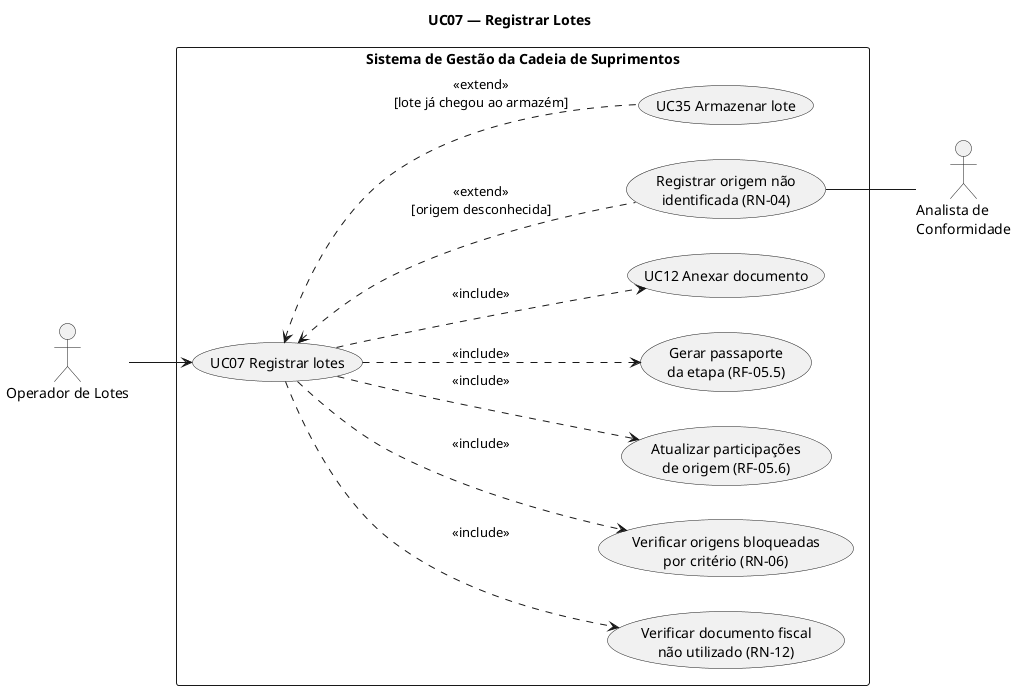
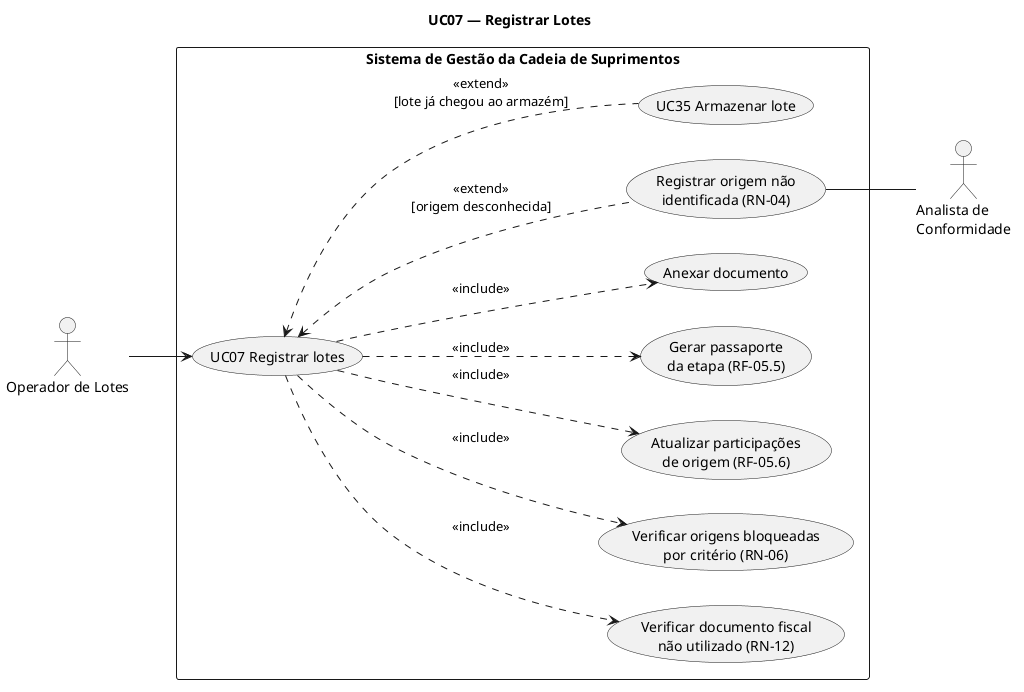
docs(casos-de-uso): remover referências aos diagramas excluídos da v3
- remover links para docs/v3/diagrams nas especificações, no cenário e no README
- trocar referências a casos de uso sem especificação pelos requisitos correspondentes
- ajustar a árvore e as convenções do índice da documentação

Claude-Session: https://claude.ai/code/session_01CS1BLfWC21KiiMoxbZDkQv

diff --git a/docs/v3/casos-de-uso/cenario-ciclo-de-vida-do-lote.md b/docs/v3/casos-de-uso/cenario-ciclo-de-vida-do-lote.md
@@ -7,11 +7,10 @@
 | **Tipo** | Cenário de ponta a ponta. Não é um caso de uso: encadeia casos de uso do sistema ao longo de vários dias e com atores diferentes |
 | **Participantes** | Operador de Lotes, Analista de Conformidade, Temporizador «sistema», SICAR «externo» |
 | **Estágio** | Piloto |
-| **Casos de uso encadeados** | [UC07](uc07-registrar-lotes.md) → [UC35](uc35-armazenar-lote.md) → [UC17](uc17-validar-conformidade.md) → UC14 → [UC36](uc36-transformar-lote.md) (com UC35) → [UC22](uc22-vender-lote.md) |
+| **Casos de uso encadeados** | [UC07](uc07-registrar-lotes.md) → [UC35](uc35-armazenar-lote.md) → [UC17](uc17-validar-conformidade.md) → consulta diária às fontes (RF-03.1) → [UC36](uc36-transformar-lote.md) (com UC35) → [UC22](uc22-vender-lote.md) |
 | **Requisitos** | RF-03.1, RF-05.1, RF-05.3, RF-05.5, RF-05.6, RF-05.9, RF-05.10, RF-05.11, RF-06.2, RF-07.2, RF-07.3, RF-13.2 |
 | **Regras de negócio** | RN-01, RN-02, RN-05, RN-06, RN-10, RN-16, RN-18, RN-19, RN-20, RN-21, RN-23 |
 | **Diagrama de atividades** | [`plantuml/cenario-ciclo-de-vida-do-lote.puml`](plantuml/cenario-ciclo-de-vida-do-lote.puml): raias por participante e nós de objeto com o estado de cada lote |
-| **Estados do lote** | [Máquina de estados do Lote](../diagrams/plantuml/estados-lote.png) ([`.puml`](../diagrams/plantuml/estados-lote.puml)): vale para qualquer lote, não só para este exemplo |
 
 ## Objetivo
 
@@ -84,7 +83,7 @@ Todos os nomes são fictícios. Massas em kg inteiros (RNF-19).
 
 2. Resultado: **não validado**. O sistema aponta a Fazenda Santa Clara como origem da massa não definida.
 
-### Etapa 4 — Consulta diária e reavaliação automática (UC14 e UC17 A1), dia 2
+### Etapa 4 — Consulta diária e reavaliação automática (RF-03.1 e UC17 A1), dia 2
 
 1. O Temporizador dispara a consulta diária ao SICAR (RF-03.1). O CAR da Fazenda Santa Clara está **ativo**: o sistema registra um novo status de C3, **conforme** (RN-10, RN-16), e a versão da Santa Clara passa de 1 para 2.
 2. O evento `StatusCriterioRegistrado` dispara a reavaliação dos lotes com participação da Santa Clara (RF-07.3). L-001 agora tem 29.700 kg conformes em C3 e passa a **validado**. As versões registradas nas participações são atualizadas.
@@ -104,7 +103,7 @@ Todos os nomes são fictícios. Massas em kg inteiros (RNF-19).
 4. F-001 e O-001 são armazenados pelo UC35, a partir do passo 3, sem pesagem de chegada, na Célula F1 e no Tanque T1, que estavam vazios.
 5. O sistema gera os passaportes **P-002** (F-001) e **P-003** (O-001), ambos com o hash de P-001 como entrada (RF-05.5). Os dois lotes de produto estão **validados**: todas as origens estão conformes nos três critérios.
 
-### Etapa 6 — Nova consulta antes da venda (UC14), dia 10
+### Etapa 6 — Nova consulta antes da venda (RF-03.1), dia 10
 
 1. A consulta diária registra uma nova avaliação de C1 para a Fazenda Boa Vista, novamente **conforme**. Mesmo sem mudança de valor, a versão da Boa Vista passa de 3 para 4 (RN-16).
 
@@ -122,7 +121,7 @@ Todos os nomes são fictícios. Massas em kg inteiros (RNF-19).
 | 1 | Registro | UC07 | em trânsito, 30.000 kg, não validado | — | — | P-001 |
 | 1 | Armazenagem | UC35 | em estoque, Silo 2, 29.700 kg | — | — | — |
 | 1 | Validação | UC17 | não validado (C3) | — | — | — |
-| 2 | Consulta SICAR | UC14 → UC17 | validado | — | — | — |
+| 2 | Consulta SICAR | RF-03.1 → UC17 | validado | — | — | — |
 | 3 | Transformação | UC36 + UC35 | em estoque, 9.700 kg | em estoque, Célula F1, 15.400 kg | em estoque, Tanque T1, 3.800 kg | P-002, P-003 |
 | 10 | Venda | UC22 | — | em estoque, 5.400 kg (10.000 kg vendidos) | — | P-004 |
 
@@ -141,6 +140,6 @@ Seguindo P-004 → P-002 → P-001, o comprador comprova a origem dos 10.000 kg 
 |---|---|---|
 | no dia 2 o CAR da Santa Clara viesse **cancelado** | C3 fica inconforme; L-001 continua não validado; F-001 e O-001 nascem não validados; a venda exige confirmação de lote não validado | RN-10, UC22 A3 |
 | a pesagem passasse de 1,5% de quebra | o Operador precisa justificar e o recebimento fica sinalizado para o Analista | RN-23, UC35 E2 |
-| o Silo 2 já tivesse soja de outro lote | a armazenagem vira mistura, com novo lote e participações combinadas | UC35 A1, UC08 |
+| o Silo 2 já tivesse soja de outro lote | a armazenagem vira mistura, com novo lote e participações combinadas | UC35 A1, RF-05.2 |
 | o caminhão fosse direto para a esmagadora | o lote é recebido sem passar pelo silo e entra no processo | UC36 A1 |
 | o rendimento informado fosse 99% | a transformação é recusada por estar fora da faixa do tipo de processo | RN-02, UC36 E1 |

diff --git a/docs/v3/casos-de-uso/uc17-validar-conformidade.md b/docs/v3/casos-de-uso/uc17-validar-conformidade.md
@@ -4,7 +4,7 @@
 
 | Campo | Valor |
 |---|---|
-| **Módulo** | Conformidade ([diagrama](../diagrams/casos-de-uso.md#3-conformidade)) |
+| **Módulo** | Conformidade |
 | **Ator principal** | Analista de Conformidade |
 | **Atores secundários** | Sistema (worker), na reavaliação automática; Auditor, na consulta |
 | **Estágio** | Piloto (consulta em data passada: Pós-piloto) |
@@ -20,7 +20,7 @@ Decidir se um lote está **validado** ou **não validado** segundo o perfil de v
 ## Pré-condições
 
 1. O usuário está autenticado e tem perfil Analista de Conformidade ou superior.
-2. Existe um perfil de validação vigente com ao menos uma regra ativa (RF-06.1, UC16).
+2. Existe um perfil de validação vigente com ao menos uma regra ativa (RF-06.1).
 3. O lote existe, não foi baixado e tem participações de origem calculadas (RF-05.6).
 
 ## Pós-condições
@@ -48,7 +48,7 @@ Decidir se um lote está **validado** ou **não validado** segundo o perfil de v
 ## Fluxos alternativos
 
 **A1 — Reavaliação automática** (início alternativo, RF-07.3)
-1. Um status de critério de uma origem é registrado (consulta diária às fontes, UC14, ou alteração manual, UC19).
+1. Um status de critério de uma origem é registrado (consulta diária às fontes, RF-03.1, ou alteração manual, RF-07.5).
 2. O worker consome o evento `StatusCriterioRegistrado` e identifica os lotes em estoque ou em trânsito que têm participação dessa origem.
 3. Para cada lote, executa os passos 2 a 6 do fluxo principal.
 4. Se o lote deixou de ser validado, notifica o Operador e o Analista (notificação na interface). O caso de uso termina.
@@ -60,13 +60,13 @@ Decidir se um lote está **validado** ou **não validado** segundo o perfil de v
 
 **A3 — Regularizar e revalidar** (passo 7)
 1. O Analista escolhe uma origem responsável por massa inconforme ou não definida.
-2. O sistema inicia o UC19 — Alterar status de critério manualmente (com justificativa e documento, RN-08).
+2. O sistema inicia a alteração manual do status do critério, com justificativa e documento (RF-07.5, RN-08).
 3. Ao concluir, volta ao passo 2.
 
 ## Fluxos de exceção
 
 **E1 — Sem perfil de validação vigente** (passo 2)
-- O sistema informa que não há perfil vigente e oferece o acesso ao UC16 — Definir perfil de validação. O caso de uso termina sem gravar.
+- O sistema informa que não há perfil vigente e oferece o acesso à definição do perfil de validação (RF-06.1). O caso de uso termina sem gravar.
 
 **E2 — Fonte externa indisponível** (passo 3)
 - O sistema usa o último status obtido com sucesso e exibe a data dele ao lado do critério (RNF-07.1). A avaliação é gravada normalmente, com a data de cada status usado.

diff --git a/docs/v3/casos-de-uso/uc35-armazenar-lote.md b/docs/v3/casos-de-uso/uc35-armazenar-lote.md
@@ -4,7 +4,7 @@
 
 | Campo | Valor |
 |---|---|
-| **Módulo** | Lotes e rastreabilidade ([diagrama](../diagrams/casos-de-uso.md#2-lotes-e-rastreabilidade)) |
+| **Módulo** | Lotes e rastreabilidade |
 | **Ator principal** | Operador de Lotes |
 | **Atores secundários** | — |
 | **Estágio** | Piloto |
@@ -20,7 +20,7 @@ Registrar a chegada física de um lote em trânsito a uma unidade de armazenagem
 ## Pré-condições
 
 1. O usuário está autenticado e tem perfil Operador de Lotes ou superior.
-2. O lote está **em trânsito** (registrado no UC07 ou transferido no UC09) ou é um lote de produto gerado no [UC36 — Transformar Lote](uc36-transformar-lote.md), que entra neste caso de uso a partir do passo 3, sem pesagem de chegada.
+2. O lote está **em trânsito** (registrado no UC07 ou transferido entre fornecedores, RF-05.8) ou é um lote de produto gerado no [UC36 — Transformar Lote](uc36-transformar-lote.md), que entra neste caso de uso a partir do passo 3, sem pesagem de chegada.
 3. O passaporte da etapa anterior do lote já foi gerado (RN-20).
 4. A unidade de armazenagem (armazém e silo, célula ou tanque) está cadastrada para a empresa (RF-05.9).
 
@@ -55,7 +55,7 @@ Registrar a chegada física de um lote em trânsito a uma unidade de armazenagem
 **A1 — Unidade já contém outros lotes (armazenagem com mistura)** (passo 6.2)
 1. O sistema informa que armazenar na unidade mistura o lote com os grãos já existentes e mostra como ficaria a distribuição de massa por critério da mistura e se ela continuaria validada.
 2. O Operador confirma a mistura.
-3. O sistema registra o recebimento (passos 7 e 8) e, na mesma operação, uma **mistura** (UC08) que gera um novo lote para o conteúdo da unidade, com as participações de origem combinadas pelas massas (RF-05.2, RF-05.6). Massa inconforme ou não definida não se torna conforme pela mistura (RN-05).
+3. O sistema registra o recebimento (passos 7 e 8) e, na mesma operação, uma **mistura** (RF-05.2) que gera um novo lote para o conteúdo da unidade, com as participações de origem combinadas pelas massas (RF-05.2, RF-05.6). Massa inconforme ou não definida não se torna conforme pela mistura (RN-05).
 4. O sistema gera o passaporte da mistura, com os hashes dos passaportes de entrada (RF-05.5). O caso de uso termina.
 
 **A2 — Recebimento parcial** (passo 3)

diff --git a/docs/README.md b/docs/README.md
@@ -15,10 +15,8 @@ docs/
 │   └── diagrams/plantuml/    classes conceitual e de domínio
 └── v3/                       ← vigente
     ├── requisitos.{md,yaml,docx}
-    ├── casos-de-uso/         especificações (UC07, UC17, UC22, UC35, UC36) e cenário do ciclo de vida + diagramas de casos de uso
-    └── diagrams/
-        ├── casos-de-uso.md   casos de uso (Mermaid) + rastreabilidade
-        └── plantuml/         casos de uso, classes, máquina de estados do lote (.puml + .png)
+    └── casos-de-uso/         especificações (UC07, UC17, UC22, UC35, UC36) e cenário do ciclo de vida
+        └── plantuml/         diagramas de casos de uso e de atividades (.puml + .png)
 ```
 
 ## Versões
@@ -27,11 +25,11 @@ docs/
 |---|---|---|---|
 | [v1](v1/) | 06/11/2026 | Requisitos, casos de uso | Primeira versão, com prioridade MoSCoW. Sem YAML estruturado. |
 | [v2](v2/) | 19/11/2026 | Requisitos, diagramas de classes | Requisitos simplificados, divididos em estágios Demo, Piloto e Pós-piloto. |
-| [v3](v3/) | 25/11/2026 | Requisitos, casos de uso, diagramas de classes | Incorpora as decisões de [`adr/`](adr/). Alterações em relação à v2 no Apêndice C de [`v3/requisitos.md`](v3/requisitos.md). |
+| [v3](v3/) | 25/11/2026 | Requisitos, especificações de casos de uso e cenário | Incorpora as decisões de [`adr/`](adr/). Alterações em relação à v2 no Apêndice C de [`v3/requisitos.md`](v3/requisitos.md). |
 
 ## Convenções
 
 - Dentro de cada pasta, os arquivos não levam sufixo de versão: a versão é dada pela pasta.
 - A partir da v2, `requisitos.yaml` é a fonte estruturada de cada versão; `requisitos.md` e `requisitos.docx` são gerados a partir dela.
-- Os PNGs do PlantUML são gerados na própria pasta: `plantuml -tpng docs/vN/diagrams/plantuml/*.puml`.
+- Os PNGs do PlantUML são gerados na própria pasta do `.puml`, por exemplo `plantuml -tpng docs/v3/casos-de-uso/plantuml/*.puml`.
 - Uma nova versão começa como cópia da pasta anterior; versões antigas não são editadas.

diff --git a/docs/v3/casos-de-uso/uc07-registrar-lotes.md b/docs/v3/casos-de-uso/uc07-registrar-lotes.md
@@ -4,7 +4,7 @@
 
 | Campo | Valor |
 |---|---|
-| **Módulo** | Lotes e rastreabilidade ([diagrama](../diagrams/casos-de-uso.md#2-lotes-e-rastreabilidade)) |
+| **Módulo** | Lotes e rastreabilidade |
 | **Ator principal** | Operador de Lotes (no Demo, Usuário) |
 | **Atores secundários** | — |
 | **Estágio** | Demo (cadastro básico); Piloto (participações, passaporte, regras de massa) |
@@ -21,7 +21,7 @@ Registrar um lote de entrada, isto é, uma carga de grãos que sai de uma ou mai
 
 1. O usuário está autenticado e pertence à empresa que receberá o lote (RNF-18).
 2. O usuário tem perfil Operador de Lotes ou superior (no Demo, Usuário ou Administrador).
-3. O fornecedor e as propriedades de origem estão cadastrados (UC01, UC02).
+3. O fornecedor e as propriedades de origem estão cadastrados.
 
 ## Pós-condições
 
@@ -76,7 +76,7 @@ Registrar um lote de entrada, isto é, uma carga de grãos que sai de uma ou mai
 - O sistema mostra a diferença em kg e volta ao passo 4.
 
 **E3 — Origem inconforme em critério bloqueante** (passo 7.3)
-- O sistema recusa o registro e informa, para cada origem bloqueada, o critério, o status, a data da avaliação e a fonte. Sugere ao Analista a regularização (alteração manual com justificativa, UC19). O caso de uso termina sem gravar.
+- O sistema recusa o registro e informa, para cada origem bloqueada, o critério, o status, a data da avaliação e a fonte. Sugere ao Analista a regularização (alteração manual de status com justificativa, RF-07.5). O caso de uso termina sem gravar.
 
 **E4 — Falha na gravação** (passo 9)
 - A transação é desfeita, nada é gravado, e o sistema informa o erro e mantém os dados do formulário para nova tentativa.

diff --git a/README.md b/README.md
@@ -50,11 +50,11 @@ As decisões de arquitetura estão registradas em [`docs/adr/`](docs/adr/):
 | [007](docs/adr/0007-implantacao-gcp.md) | Implantação no Google Cloud (Cloud Run, Cloud SQL com PostGIS, Cloud Storage) |
 | [008](docs/adr/0008-papel-em-relacao-ao-erp.md) | O sistema complementa o ERP: importa dele as movimentações e é a fonte de origem, conformidade e passaportes |
 
-## Diagrama de classes
+## Casos de uso e diagramas
 
-![Diagrama de classes conceitual](docs/v3/diagrams/plantuml/classes-conceitual.png)
+Os casos de uso da v3 estão especificados em [`docs/v3/casos-de-uso/`](docs/v3/casos-de-uso/), cada um com seu diagrama de casos de uso: Registrar lotes, Validar conformidade, Vender lote, Armazenar lote e Transformar lote. O [cenário do ciclo de vida do lote](docs/v3/casos-de-uso/cenario-ciclo-de-vida-do-lote.md) encadeia esses casos em um exemplo de ponta a ponta, com diagrama de atividades.
 
-O diagrama de domínio detalhado está em [`docs/v3/diagrams/plantuml/classes-dominio.png`](docs/v3/diagrams/plantuml/classes-dominio.png), e os casos de uso em [`docs/v3/diagrams/casos-de-uso.md`](docs/v3/diagrams/casos-de-uso.md).
+<!-- TODO: diagrama de classes da v3. Os diagramas de classes existentes são os da v2 (docs/v2/diagrams/plantuml/) e não incluem as mudanças da v3. -->
 
 ## Documentação do projeto
 

diff --git a/docs/v3/casos-de-uso/uc22-vender-lote.md b/docs/v3/casos-de-uso/uc22-vender-lote.md
@@ -4,7 +4,7 @@
 
 | Campo | Valor |
 |---|---|
-| **Módulo** | Vendas ([diagrama](../diagrams/casos-de-uso.md#4-vendas)) |
+| **Módulo** | Vendas |
 | **Ator principal** | Operador de Lotes |
 | **Atores secundários** | — (o comprador não interage com o sistema) |
 | **Estágio** | Piloto |
@@ -52,7 +52,7 @@ Registrar a venda de um lote em estoque, total ou parcial, a um comprador, dando
 
 **A1 — Comprador não cadastrado** (passo 3)
 1. O Operador escolhe **Novo comprador**.
-2. O sistema inicia o UC21 — Cadastrar comprador.
+2. O sistema abre o cadastro de comprador (RF-13.1).
 3. Ao concluir, o comprador fica selecionado; volta ao passo 3.
 
 **A2 — Origem mudou desde o último cálculo** (passo 6)
@@ -71,7 +71,7 @@ Registrar a venda de um lote em estoque, total ou parcial, a um comprador, dando
 2. O lote continua **em estoque** com o saldo reduzido; as participações de origem do saldo mantêm a mesma distribuição percentual. Segue para o passo 9.
 
 **A5 — Exportar passaporte para o comprador** (passo 10)
-1. O Operador escolhe exportar o passaporte em PDF, JSON ou QR Code (UC11).
+1. O Operador escolhe exportar o passaporte em PDF, JSON ou QR Code (RF-05.5).
 2. O sistema gera o arquivo a partir do passaporte da venda, sem alterá-lo.
 
 ## Fluxos de exceção

diff --git a/docs/v3/casos-de-uso/uc36-transformar-lote.md b/docs/v3/casos-de-uso/uc36-transformar-lote.md
@@ -4,7 +4,7 @@
 
 | Campo | Valor |
 |---|---|
-| **Módulo** | Lotes e rastreabilidade ([diagrama](../diagrams/casos-de-uso.md#2-lotes-e-rastreabilidade)) |
+| **Módulo** | Lotes e rastreabilidade |
 | **Ator principal** | Operador de Lotes |
 | **Atores secundários** | — |
 | **Estágio** | Piloto |
@@ -74,7 +74,7 @@ Cada lote de entrada pode chegar ao processo de duas formas:
 
 **A4 — Unidade de destino já contém o mesmo produto** (passo 9)
 1. O sistema informa que armazenar o lote de produto na unidade o mistura com o conteúdo existente.
-2. O Operador confirma, e o sistema registra também a mistura (UC08), como no fluxo A1 do UC35.
+2. O Operador confirma, e o sistema registra também a mistura (RF-05.2), como no fluxo A1 do UC35.
 
 **A5 — Validar os lotes de produto** (passo 13)
 1. O Operador ou o Analista escolhe validar um lote de produto.
